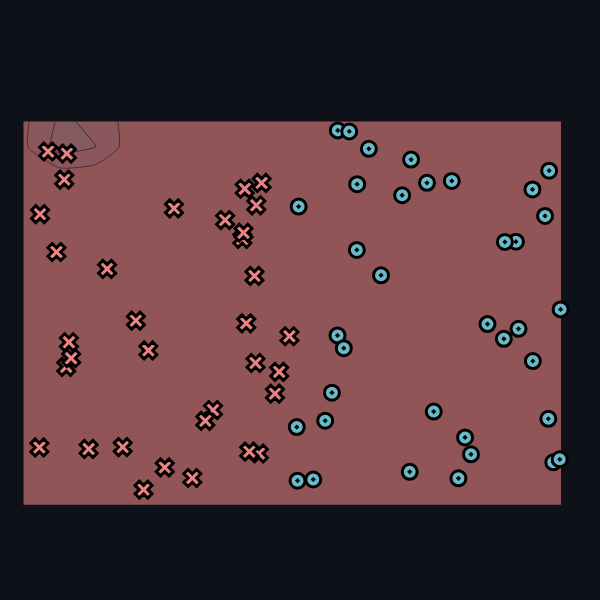
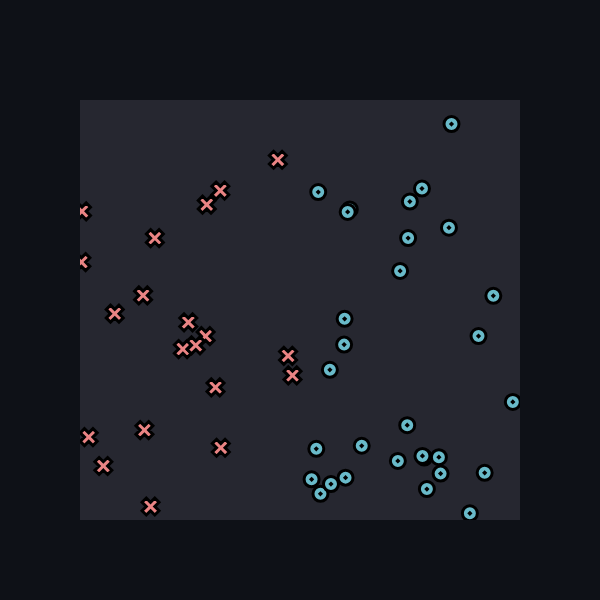
Change classifier args

diff --git a/README.md b/README.md
@@ -7,9 +7,9 @@ Inital dataset
 
 <img src="graphs/initial.png" width="30%">
 
-Classified dataset (lr: 0.05, epochs: 1000)
+Classified dataset (Parameter: linear.weight_0_0: -10,  linear.weight_1_0: 0.04, linear.bias_0: 4.76)
 
-<img src="graphs/lr005_epochs1000.png" width="30%">
+<img src="graphs/classified.png" width="30%">
 
 * Docs: https://minitorch.github.io/
 
